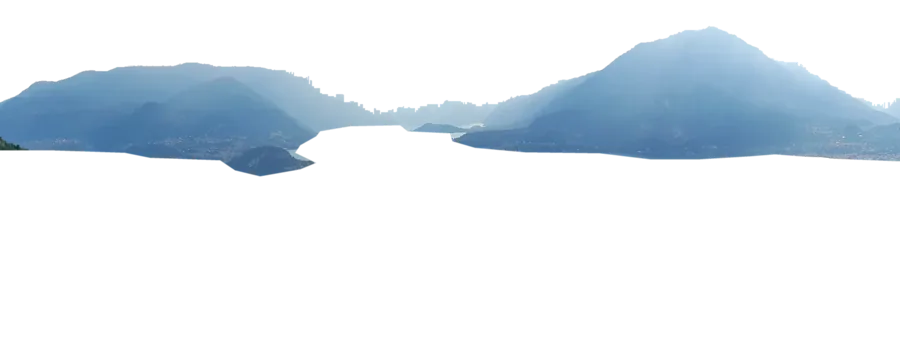
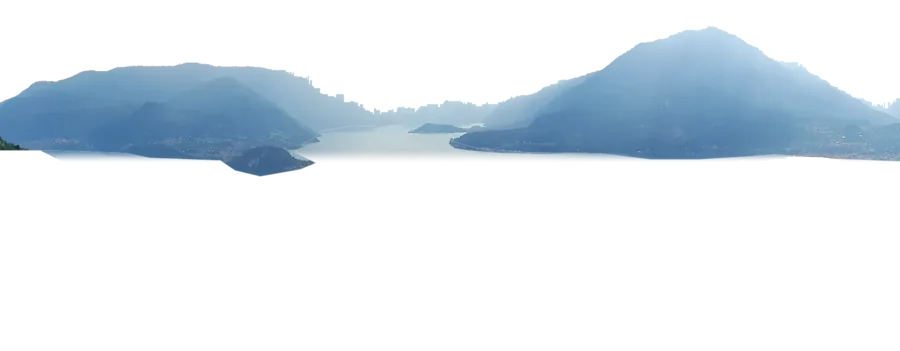
WIP v2: YTS founder/club/contact 3D
Claude-Session: https://claude.ai/code/session_018x3wkp5jrKdf48bW9bLgea

Changed region(s): [[0.3111, 0.3419, 0.7156, 0.4558], [0.0311, 0.4274, 0.1867, 0.4558], [0.8089, 0.4274, 0.8711, 0.4558]]

diff --git a/src-sites/src/sites/yts/como3d.jsx b/src-sites/src/sites/yts/como3d.jsx
@@ -314,11 +314,11 @@ function Lights({ reg, mobile }) {
 const HILL = { pos: [0, 22, 32], w: 112 } // render #140 stage, faces the lake (−z)
 const TERR = { pos: [0, 34.2, 25.9], look: [0, 44, 4], w: 38 } // render #5 stage
 const LBL = {
-  bellagio: { p: [...far(560, 296)].map((v, i) => (i === 1 ? v + 2 : v)), win: [[.2, .45], [.86, 1.01]] },
-  cadenabbia: { p: far(1130, 292), win: [[.22, .45], [.88, 1.01]] },
-  menaggio: { p: far(1660, 300), win: [[.24, .45], [.88, 1.01]] },
-  vezio: { p: onPlane(776, 418, KN), win: [[.88, 1.01]] },
-  varenna: { p: onPlane(1205, 582, KN), win: [[.86, 1.01]] },
+  bellagio: { p: [...far(560, 296)].map((v, i) => (i === 1 ? v + 2 : v)), win: [[.2, .45], [.9, 1.01]] },
+  cadenabbia: { p: far(1130, 292), win: [[.22, .45], [.91, 1.01]] },
+  menaggio: { p: far(1660, 300), win: [[.24, .45], [.91, 1.01]] },
+  vezio: { p: onPlane(776, 418, KN), win: [[.92, 1.01]] },
+  varenna: { p: onPlane(1205, 582, KN), win: [[.91, 1.01]] },
   home: { p: [-8, 25, 30], win: [[.54, .69]] },
 }
 function Label({ id, text, sub, progress, gold, layer }) {
@@ -351,9 +351,9 @@ function Triangle({ progress, label }) {
     out.push(k[3]); return out
   }, [])
   useFrame(() => {
-    const p = progress.get(), d = ss(.875, .93, p), fade = 1 - ss(.965, .995, p)
+    const p = progress.get(), d = ss(.915, .955, p), fade = 1 - ss(.975, .998, p)
     if (line.current) { line.current.geometry.instanceCount = Math.max(1, Math.round(d * (pts.length - 1))); line.current.material.opacity = fade * .9; line.current.visible = d > 0 && fade > 0 }
-    if (lab.current) lab.current.style.opacity = ss(.91, .935, p) * fade
+    if (lab.current) lab.current.style.opacity = ss(.935, .955, p) * fade
   })
   useLayoutEffect(() => { line.current?.layers.set(1) }, [])
   return (
@@ -378,8 +378,8 @@ const STATIONS_D = [
   [.62, [0, 18, -14], PI, .04, 44],
   [.7, [0, 34.9, -.1], PI, -.42, 46],
   [.79, [0, 44, 4], PI, -.42, 46],
-  [.85, [0, 34, 4], PI * 1.45, -.2, 50],
-  [.93, [0, EYE, 0], 2 * PI, -.178, 50],
+  [.855, [0, 33, 3], PI * 1.5, -.2, 50],
+  [.91, [0, EYE, 0], 2 * PI, -.178, 50],
   [1, [0, EYE, 0], 2 * PI, -.165, 47],
 ]
 const STATIONS_M = STATIONS_D.map(([p, pos, y, pt, f], i) => [p, i === 2 || i === 3 ? [pos[0], pos[1] + 1.5, pos[2]] : pos, y + (i <= 3 ? .08 : 0), pt, Math.min(74, f + 18)])
@@ -407,7 +407,6 @@ function Rig({ progress, mobile, reg, clockRef }) {
     s.p = window.__comoSnap ? progress.get() : THREE.MathUtils.damp(s.p, progress.get(), 3.4, dt)
     s.mx = THREE.MathUtils.damp(s.mx, state.pointer.x, 2.2, dt); s.my = THREE.MathUtils.damp(s.my, state.pointer.y, 2.2, dt)
     const p = s.p
-    if (window.__comoHide) for (const k of window.__comoHide) { const L = R[k]; const o3 = L?.mesh || L?.mat?.__r3f?.parent || L?.mat; if (o3 && 'visible' in o3) o3.visible = false }
     const o = sampleStations(st, p, tmp.o)
     // pointer parallax: strongest when the camera rests among the depth layers
     const par = mobile ? 0 : (.6 + 1.4 * ss(.86, .95, p))
@@ -432,11 +431,11 @@ function Rig({ progress, mobile, reg, clockRef }) {
     if (R.water) { R.water.mat.color.copy(T.top).multiplyScalar(.28 * T.exp); R.water.tint.copy(T.haze).lerp(new THREE.Color(1, 1, 1), .4).multiplyScalar(.66) }
     if (R.word) R.word.mat.opacity = 1 - ss(.14, .26, p)
     if (R.mist) for (const u of R.mist) { u.uCol.value.copy(T.haze); u.uTime.value += dt; u.uAmt.value = u.uBase * (1 - .35 * T.stars) }
-    if (R.lights) { R.lights[0].uI.value = T.lights; R.lights[1].uI.value = T.lights * ss(.86, .95, p); R.lights.forEach(u => (u.uTime.value = s.t)) }
+    if (R.lights) { R.lights[0].uI.value = T.lights; R.lights[1].uI.value = T.lights * ss(.91, .96, p); R.lights.forEach(u => (u.uTime.value = s.t)) }
     // grade every photo layer
     const vis = {
       far129: 1, band142: 1, band141: 1,
-      near129: ss(.855, .935, p), fg129: ss(.875, .95, p),
+      near129: ss(.895, .95, p), fg129: ss(.905, .96, p),
       hill140: 1 - ss(.655, .72, p), terr5: ss(.64, .71, p) * (1 - ss(.8, .86, p)),
     }
     for (const k in vis) {
@@ -467,8 +466,8 @@ function Scene({ progress, mobile, labels, clockRef }) {
         {/* far mountains of #129 — plane at z = −150, shoreline row on the water line */}
         <Layer name="far129" depthId={129} width={360} seg={segF} position={[0, (SHORE - 350.5) * S, ZF]} amount={14} hazeScale={1} reg={reg} renderOrder={0} opts={{ edgeX: .012, baseHaze: .55 }} />
         {/* side ranges so the turn over the water never runs out of mountains */}
-        <Layer name="band142" depthId={142} width={420} seg={mobile ? 100 : 160} position={[-175, -14, -40]} rotation={[0, PI / 2, 0]} amount={10} hazeScale={1.25} reg={reg} opts={{ edgeX: .06, baseHaze: .6 }} />
-        <Layer name="band141" depthId={141} width={420} seg={mobile ? 100 : 160} position={[175, -12, -10]} rotation={[0, -PI / 2, 0]} amount={10} hazeScale={1.25} reg={reg} opts={{ edgeX: .06, baseHaze: .6 }} />
+        <Layer name="band142" depthId={142} width={520} seg={mobile ? 100 : 160} position={[-185, -3.5, -40]} rotation={[0, PI / 2, 0]} amount={10} hazeScale={1.25} reg={reg} opts={{ edgeX: .06, baseHaze: .6 }} />
+        <Layer name="band141" depthId={141} width={520} seg={mobile ? 100 : 160} position={[185, -6.4, -10]} rotation={[0, -PI / 2, 0]} amount={10} hazeScale={1.25} reg={reg} opts={{ edgeX: .06, baseHaze: .6 }} />
         {/* the hillside with the homes (#140, sky removed) across the water, east shore */}
         <Layer name="hill140" depthId={140} width={HILL.w} seg={mobile ? 150 : 240} position={[HILL.pos[0], HILL.pos[1], HILL.pos[2]]} rotation={[0, PI, 0]} amount={-9} hazeScale={.35} reg={reg} renderOrder={1} opts={{ edgeX: .07, baseHaze: .2, reveal: 1 }} />
         <Stage name="terr5" id={5} width={TERR.w} seg={mobile ? 150 : 230} position={TERR.pos} lookAt={TERR.look} amount={7} reg={reg} />

diff --git a/src-sites/src/sites/yts/hero3d.jsx b/src-sites/src/sites/yts/hero3d.jsx
@@ -25,18 +25,18 @@ const tex = n => `/portfolio/yts/tex/${n}.webp`
 
 /* camera keyframes (orbit around the building) */
 const DESK = {
-  A: { th: -.58, el: .30, R: 21, ty: 0, ly: -.2, sh: 2.5 },
-  B: { th: -.22, el: .25, R: 19, ty: 0, ly: 0, sh: 2.1 },
-  C: { th: .36, el: .21, R: 17.6, ty: 0, ly: 0, sh: 1.7 },
-  D: { th: .52, el: .17, R: 20.5, ty: 1.9, ly: 0, sh: .55 },
-  E: { th: .08, el: .1, R: 19, ty: .6, ly: 0, sh: 0 },
+  A: { th: -.58, el: .30, R: 29, ty: 0, ly: -1.3, sh: 4.4 },
+  B: { th: -.22, el: .25, R: 27, ty: 0, ly: -.6, sh: 3.8 },
+  C: { th: .36, el: .21, R: 25.5, ty: 0, ly: -.4, sh: 3.4 },
+  D: { th: .52, el: .17, R: 30, ty: 1.9, ly: 0, sh: 1.2 },
+  E: { th: .08, el: .1, R: 27, ty: .6, ly: 0, sh: 0 },
 }
 const MOB = {
-  A: { th: -.5, el: .3, R: 30, ty: 0, ly: -2.6, sh: 0 },
-  B: { th: -.2, el: .26, R: 29, ty: 0, ly: -2.2, sh: 0 },
-  C: { th: .3, el: .22, R: 28, ty: 0, ly: -2.0, sh: 0 },
-  D: { th: .45, el: .16, R: 33, ty: 2.0, ly: -1.2, sh: .9 },
-  E: { th: .05, el: .08, R: 30, ty: .6, ly: -.5, sh: 0 },
+  A: { th: -.5, el: .3, R: 44, ty: 0, ly: -3.4, sh: 0 },
+  B: { th: -.2, el: .26, R: 42, ty: 0, ly: -3, sh: 0 },
+  C: { th: .3, el: .22, R: 40, ty: 0, ly: -2.6, sh: 0 },
+  D: { th: .45, el: .16, R: 46, ty: 2.0, ly: -1.6, sh: 1.6 },
+  E: { th: .05, el: .08, R: 42, ty: .6, ly: -.5, sh: 0 },
 }
 function lerpPose(a, b, k) { const o = {}; for (const key in a) o[key] = lerp(a[key], b[key], k); return o }
 const _r = new THREE.Vector3(), _up = new THREE.Vector3(0, 1, 0)
@@ -118,7 +118,7 @@ function useBuildingMats(plane, mobile) {
     return {
       plaster: new THREE.MeshStandardMaterial({ ...base, map: t.pd, normalMap: t.pn, normalScale: new THREE.Vector2(.35, .35), color: '#fbf6ee', roughness: .82 }),
       stone: new THREE.MeshStandardMaterial({ ...base, map: t.sd, normalMap: t.sn, roughnessMap: t.sa, aoMap: null, color: '#e6dccb', roughness: 1, normalScale: new THREE.Vector2(1.1, 1.1) }),
-      wood: new THREE.MeshStandardMaterial({ ...base, map: t.wd, normalMap: t.wn, color: '#d9a674', roughness: .62 }),
+      wood: new THREE.MeshStandardMaterial({ ...base, map: t.wd, normalMap: t.wn, color: '#f2e6da', roughness: .6 }),
       glass: new THREE.MeshStandardMaterial({ ...base, color: '#1b262b', metalness: 1, roughness: .05, envMapIntensity: 1.6, transparent: true, opacity: .62 }),
       frame: new THREE.MeshStandardMaterial({ ...base, color: '#2a2724', metalness: .7, roughness: .38 }),
       interior: new THREE.MeshStandardMaterial({ ...base, color: '#3a2a1c', emissive: '#ffb066', emissiveIntensity: .3, roughness: .9 }),
@@ -129,9 +129,8 @@ function useBuildingMats(plane, mobile) {
 }
 
 function Instanced({ geo, list, mat }) {
-  const ref = useRef()
-  useEffect(() => { ref.current && fillInstances(ref.current, list) }, [list])
-  return <instancedMesh ref={ref} args={[geo, mat, list.length]} frustumCulled={false} />
+  const mesh = useMemo(() => { const m = new THREE.InstancedMesh(geo, mat, list.length); fillInstances(m, list); m.frustumCulled = false; return m }, [geo, list, mat])
+  return <primitive object={mesh} />
 }
 
 function Label({ L, i, text, refFn }) {
@@ -237,11 +236,11 @@ function World({ film, labels, mobile }) {
   photoS.colorSpace = THREE.SRGBColorSpace
   const model = useMemo(buildModel, [])
   const pose = useMemo(() => openingPose(mobile), [mobile])
-  const geometry = useMemo(() => buildParticleGeometry({ N, build: samplePoints(model, N), sketchImage: sketch.image, pose, sketchH: mobile ? 9.6 : 8.4, photoAspect: PHOTO.aspect }), [model, sketch, pose, N])
+  const geometry = useMemo(() => buildParticleGeometry({ N, build: samplePoints(model, N), sketchImage: sketch.image, pose, sketchH: mobile ? 13.5 : 11.6, photoAspect: PHOTO.aspect }), [model, sketch, pose, N])
   return (
     <>
       <Building model={model} film={film} labels={labels} mobile={mobile} />
-      <Particles geometry={geometry} film={film} photoMap={photoS} depthMap={depth} photo={PHOTO} swirlC={CENTER} size={mobile ? .04 : .024} />
+      <Particles geometry={geometry} film={film} photoMap={photoS} depthMap={depth} photo={PHOTO} swirlC={CENTER} size={mobile ? .05 : .032} />
       <PhotoSolid film={film} photo={PHOTO} depthMap={depth} mobile={mobile} />
     </>
   )
@@ -261,13 +260,13 @@ function Post({ film }) {
       _focus.lerp(new THREE.Vector3(PHOTO.c[0], PHOTO.c[1] - .6, PHOTO.c[2] + 1.2), b.dolly)
       target.copy(_focus)
       dof.current.target = target
-      dof.current.bokehScale = lerp(0, 3.2, b.solid) * (1 - b.photo * .7) + b.dolly * 2.4
+      dof.current.bokehScale = lerp(0, 1.4, b.solid) * (1 - b.photo) + b.dolly * 1.1
     }
-    if (ca.current) { const k = Math.min(.006, f.v * .016); caOff.set(k, k * .6) }
+    if (ca.current) { const k = SNAP ? 0 : Math.min(.0024, f.v * .006); caOff.set(k, k * .6) }
   })
   return (
     <EffectComposer multisampling={0} disableNormalPass>
-      <DepthOfField ref={dof} focusRange={.03} bokehScale={0} resolutionScale={.5} />
+      <DepthOfField ref={dof} focusRange={.06} bokehScale={0} resolutionScale={.5} />
       <Bloom mipmapBlur luminanceThreshold={1} luminanceSmoothing={.2} intensity={.85} radius={.7} />
       <ChromaticAberration ref={ca} offset={caOff} radialModulation modulationOffset={.15} />
       <ToneMapping mode={ToneMappingMode.ACES_FILMIC} />

diff --git a/src-sites/src/sites/yts/heroBuild.jsx b/src-sites/src/sites/yts/heroBuild.jsx
@@ -1,5 +1,5 @@
 import * as THREE from 'three'
-import { mergeGeometries } from 'three/examples/jsm/utils/BufferGeometryUtils.js'
+import { mergeGeometries, mergeVertices } from 'three/examples/jsm/utils/BufferGeometryUtils.js'
 import { MeshSurfaceSampler } from 'three/examples/jsm/math/MeshSurfaceSampler.js'
 
 /* Procedural terraced hillside residence (after the Lake Como scheme, render id 5):
@@ -53,7 +53,8 @@ export function hillY(x, z) {
 }
 
 function lumpy(detail = 1, amp = .22, seed = 1) {
-  const g = new THREE.IcosahedronGeometry(1, detail)
+  const g0 = new THREE.IcosahedronGeometry(1, detail); g0.deleteAttribute('normal'); g0.deleteAttribute('uv')
+  const g = mergeVertices(g0)
   const p = g.attributes.position, v = new THREE.Vector3()
   for (let i = 0; i < p.count; i++) {
     v.fromBufferAttribute(p, i)
@@ -66,7 +67,7 @@ function lumpy(detail = 1, amp = .22, seed = 1) {
 }
 
 const GREENS = ['#56703a', '#6b8444', '#47602f', '#7f9450', '#5d7a3c', '#3f5629', '#8ea35c']
-const FLOWER = '#ece8da'
+const FLOWER = '#cfcbb4'
 
 export function buildModel() {
   const rnd = rng(11)
@@ -117,7 +118,7 @@ export function buildModel() {
       for (let b = 0; b < n; b++) {
         const r = (big ? .2 : .13) + rnd() * (big ? .16 : .12)
         const bx = x - w / 2 + .1 + (b + rnd() * .6) * ((w - .2) / n)
-        bushes.push({ p: [bx, y0 + r * .35, z0 + (rnd() - .5) * .14], s: [r * 1.25, r * .8, r], c: rnd() < .14 ? FLOWER : GREENS[(rnd() * GREENS.length) | 0] })
+        bushes.push({ p: [bx, y0 + r * .35, z0 + (rnd() - .5) * .14], s: [r * 1.25, r * .8, r], c: rnd() < .08 ? FLOWER : GREENS[(rnd() * GREENS.length) | 0] })
         if (rnd() < .45) bushes.push({ p: [bx + (rnd() - .5) * .2, y0 - r * .6, z0 + .16], s: [r * .8, r * 1.2, r * .55], c: GREENS[(rnd() * GREENS.length) | 0] }) // hanging
       }
     }
@@ -161,7 +162,7 @@ export function buildModel() {
   for (let k = 0; k < 7; k++) { const tx = -5.9 - (k % 2) * .5, tz = 1.5 - k * 1.3, h = 1.3 + rnd() * 1.1; cypress.push({ p: [tx, hillY(tx, tz) + h * .9, tz], s: [.25, h, .25], c: '#2c4125' }) }
   for (let k = 0; k < 5; k++) { const tx = 5.7 + (k % 2) * .5, tz = -.5 - k * 1.5, h = 1.2 + rnd() * 1.3; cypress.push({ p: [tx, hillY(tx, tz) + h * .9, tz], s: [.24, h, .24], c: '#34492c' }) }
 
-  return { levels, hill, cypress, crowns, geoms: { bush: lumpy(1, .2, 1), crown: lumpy(2, .16, 4), cypress: cypressGeo() } }
+  return { levels, hill, cypress, crowns, geoms: { bush: lumpy(2, .24, 1), crown: lumpy(3, .2, 4), cypress: cypressGeo() } }
 }
 
 function cypressGeo() {

diff --git a/src-sites/src/sites/yts/palazzo3d.jsx b/src-sites/src/sites/yts/palazzo3d.jsx
@@ -267,7 +267,7 @@ const skyVert = `varying vec3 vP; void main(){ vP = normalize(position); gl_Posi
 const skyFrag = `uniform float uDusk; uniform vec3 uSun; varying vec3 vP;
 void main(){
   float y = clamp(vP.y, -0.2, 1.0);
-  vec3 zD = vec3(.36,.52,.70), hD = vec3(.96,.84,.66);
+  vec3 zD = vec3(.24,.40,.60), hD = vec3(.92,.72,.50);
   vec3 zG = vec3(.20,.27,.42), hG = vec3(1.0,.58,.28);
   vec3 zN = vec3(.025,.04,.09), hN = vec3(.42,.17,.12);
   float a = smoothstep(0.0, .5, uDusk), b = smoothstep(.45, 1.0, uDusk);
@@ -389,12 +389,12 @@ function Word({ S }) {
     ref.current.visible = !S.interior && S.p < 0.5
     // always stands behind the palazzo, turned to the lens
     FWD.set(camera.position.x, 0, camera.position.z).normalize()
-    ref.current.position.set(-FWD.x * 6.5, -0.06 + S.e * 1.2, -FWD.z * 6.5)
+    ref.current.position.set(-FWD.x * 7.5, -0.06 + S.e * 1.6, -FWD.z * 7.5)
     ref.current.rotation.y = Math.atan2(FWD.x, FWD.z)
   })
   return (
     <group ref={ref}>
-      <Center bottom>
+      <Center top>
         <Text3D font={font} size={2.3} height={0.4} bevelEnabled bevelSize={0.025} bevelThickness={0.03} bevelSegments={2} curveSegments={6} letterSpacing={-0.04}>
           CAMPANI
           <meshStandardMaterial color="#d5ae6e" metalness={0.9} roughness={0.28} />
@@ -432,7 +432,7 @@ function Director({ progress, S, drag }) {
       P0.y += (1 - intro) * -0.4
       // push the building off-centre to leave room for the copy / labels
       FWD.subVectors(T0, P0).normalize(); RIGHT.crossVectors(FWD, cam.up).normalize()
-      const off = (mob ? 0.7 : 0.9) * (0.4 + 0.6 * ex)
+      const off = mob ? 0.6 * (0.4 + 0.6 * ex) : -0.2 - 0.25 * ex
       P0.addScaledVector(RIGHT, off); T0.addScaledVector(RIGHT, off)
       // fly to the central window of the piano nobile, then through it
       const wy = BASES[2] + (WIN.y0 + (WIN.y1 - WIN.y0) * 0.42) * PLAN[2].h
@@ -474,7 +474,7 @@ function Effects({ S, mob }) {
       <Bloom mipmapBlur luminanceThreshold={0.92} luminanceSmoothing={0.25} intensity={1.2} radius={0.78} />
       <ToneMapping ref={tm} mode={ToneMappingMode.ACES_FILMIC} />
       <Vignette offset={0.28} darkness={0.62} />
-      <Noise premultiply blendFunction={BlendFunction.SOFT_LIGHT} opacity={0.55} />
+      <Noise premultiply blendFunction={BlendFunction.SOFT_LIGHT} opacity={0.35} />
     </EffectComposer>
   )
 }

diff --git a/src-sites/src/sites/yts/heroParticles.jsx b/src-sites/src/sites/yts/heroParticles.jsx
@@ -27,7 +27,7 @@ void main(){
   float hy = (aBuild.y + 4.) / 10.;
   float km = sm(uMorph * 1.7 - rw * .4 - hy * .3);
   float arc = sin(km * 3.14159);
-  p = mix(p, aBuild, km) + vec3(sin(rx * 50. + uTime * .8) * .9, .5 + ry * 1.6, cos(rz * 50. + uTime * .8) * .9) * arc;
+  p = mix(p, aBuild, km) + vec3(sin(rx * 50. + uTime * .8) * .6, .3 + ry * 1.1, cos(rz * 50. + uTime * .8) * .6) * arc;
   // 3 · building → photo cloud
   vec2 uv = aUv;
   float d = texture2D(uDepthMap, uv).r;
@@ -42,10 +42,10 @@ void main(){
   sk = mix(sk, uGold, gold * .85);
   vec3 bc = mix(mix(uInk, vec3(.32, .26, .2), ry * .6), uGold * 1.6, uDusk * .8 + gold * .6);
   vec3 col = mix(sk, bc, km);
-  col = mix(col, uGold * 1.8, arc * .7);
+  col = mix(col, uGold * 1.5, arc * .45);
   vec3 ph = texture2D(uPhotoMap, uv).rgb;
-  col = mix(col, ph * 1.08, kp);
-  col = mix(col, uGold * 2.2, arc2 * .6);
+  col = mix(col, ph * 1.08, smoothstep(0., .55, kp));
+  col = mix(col, uGold * 1.6, arc2 * .3);
 
   // the scan: particles below the cut have become stone; a hot band rides the cut
   float inB = km * (1. - kp);
@@ -59,7 +59,7 @@ void main(){
 
   vec4 mv = modelViewMatrix * vec4(p, 1.);
   gl_Position = projectionMatrix * mv;
-  float s = uSize * (1. + band * 1.4 + arc * .6 + arc2 * .8) * mix(1., 1.55, kp) * mix(1., 1.25, gold);
+  float s = uSize * (1. + band * 1.4 + arc * .3 + arc2 * .4) * mix(1., 1.2, kp) * mix(1., 1.25, gold);
   gl_PointSize = max(1., s * uScale / -mv.z);
   vCol = col; vA = a;
 }`

diff --git a/src-sites/src/sites/yts/Palazzo.jsx b/src-sites/src/sites/yts/Palazzo.jsx
@@ -214,7 +214,7 @@ function Film({ pickerRef }) {
   const lite = useLite()
   const mob = useIsMobile()
   const ref = useRef()
-  const [near, vis] = useNear(ref)
+  const [near, vis] = useNear(ref, '250% 0px')
   const { scrollYProgress } = useScroll({ target: ref, offset: ['start start', 'end end'] })
   const still = useMotionValue(1)
   const progress = reduce ? still : scrollYProgress
@@ -256,7 +256,7 @@ function Film({ pickerRef }) {
 
   return (
     <div ref={ref} className="relative bg-[#0b0a09]" style={{ height: mob ? '880vh' : '1000vh' }}>
-      <div className="sticky top-0 h-[100svh] touch-pan-y overflow-hidden text-[#ece7df]" onPointerDown={onDown} onPointerMove={onMove} onPointerUp={onUp} onPointerLeave={onUp}>
+      <div className="sticky top-0 h-[100svh] touch-pan-y overflow-hidden bg-[radial-gradient(ellipse_at_50%_40%,#d9b88f_0%,#8a5f3a_55%,#2a1c12_100%)] text-[#ece7df]" onPointerDown={onDown} onPointerMove={onMove} onPointerUp={onUp} onPointerLeave={onUp}>
         <div className="absolute inset-0">{near && <Suspense fallback={null}><Film3D progress={progress} hud={hud} lang={lang} active={vis} lite={mob} drag={drag} /></Suspense>}</div>
 
         {/* HUD: leader lines + floor labels */}

diff --git a/src-sites/src/sites/yts/Como.jsx b/src-sites/src/sites/yts/Como.jsx
@@ -155,10 +155,10 @@ function Film() {
           <Eyebrow className="mb-4 text-white/85">{t({ en: 'Perledo · SP65 Scenic Route', it: 'Perledo · Strada panoramica SP65' })}</Eyebrow>
           <p className={`${T.serif} text-[clamp(28px,3.1vw,46px)] leading-[1.04] text-white drop-shadow-[0_2px_24px_rgba(0,0,0,.4)]`}>{t(COMO.lead)}</p>
         </Chapter>
-        <Chapter p={p} range={[.88, .92, 1.1, 1.2]} className="bottom-[12%] left-5 right-5 md:left-10">
+        <Chapter p={p} range={[.91, .94, 1.1, 1.2]} className="bottom-[12%] left-5 right-5 md:left-10">
           <Eyebrow className="mb-4 text-white/85">{t({ en: 'From every garden', it: 'Da ogni giardino' })}</Eyebrow>
           <h3 className={`${T.serif} text-[clamp(40px,6vw,96px)] leading-[.92] text-white drop-shadow-[0_2px_30px_rgba(0,0,0,.35)]`}>
-            <KineticWords p={p} from={.9} to={.97} text={t({ en: 'The lake, framed as your own.', it: 'Il lago, incorniciato come fosse tuo.' })} />
+            <KineticWords p={p} from={.925} to={.98} text={t({ en: 'The lake, framed as your own.', it: 'Il lago, incorniciato come fosse tuo.' })} />
           </h3>
         </Chapter>
         <Rail p={p} />

diff --git a/src-sites/src/sites/yts/Contact.jsx b/src-sites/src/sites/yts/Contact.jsx
@@ -143,7 +143,7 @@ function useNear(ref) {
   const [near, setNear] = useState(false), [vis, setVis] = useState(false)
   useEffect(() => {
     const el = ref.current; if (!el) return
-    const a = new IntersectionObserver(([e]) => setNear(e.isIntersecting), { rootMargin: '80% 0px' })
+    const a = new IntersectionObserver(([e]) => setNear(e.isIntersecting), { rootMargin: '40% 0px' })
     const b = new IntersectionObserver(([e]) => setVis(e.isIntersecting), { rootMargin: '5% 0px' })
     a.observe(el); b.observe(el)
     return () => { a.disconnect(); b.disconnect() }

diff --git a/src-sites/src/sites/yts/Founder.jsx b/src-sites/src/sites/yts/Founder.jsx
@@ -11,7 +11,7 @@ const Group3D = lazy(() => import('./foundergroup3d'))
 const EASE = [0.16, 1, 0.3, 1]
 const pad = n => String(n).padStart(2, '0')
 
-function useNear(ref, margin = '80% 0px') {
+function useNear(ref, margin = '40% 0px') {
   const [near, setNear] = useState(false), [vis, setVis] = useState(false)
   useEffect(() => {
     const el = ref.current; if (!el) return

diff --git a/src-sites/src/sites/yts/Club.jsx b/src-sites/src/sites/yts/Club.jsx
@@ -8,7 +8,7 @@ const Sea3D = lazy(() => import('./club3d'))
 const EASE = [0.16, 1, 0.3, 1]
 const pad = n => String(n).padStart(2, '0')
 
-function useNear(ref, margin = '80% 0px') {
+function useNear(ref, margin = '40% 0px') {
   const [near, setNear] = useState(false), [vis, setVis] = useState(false)
   useEffect(() => {
     const el = ref.current; if (!el) return
